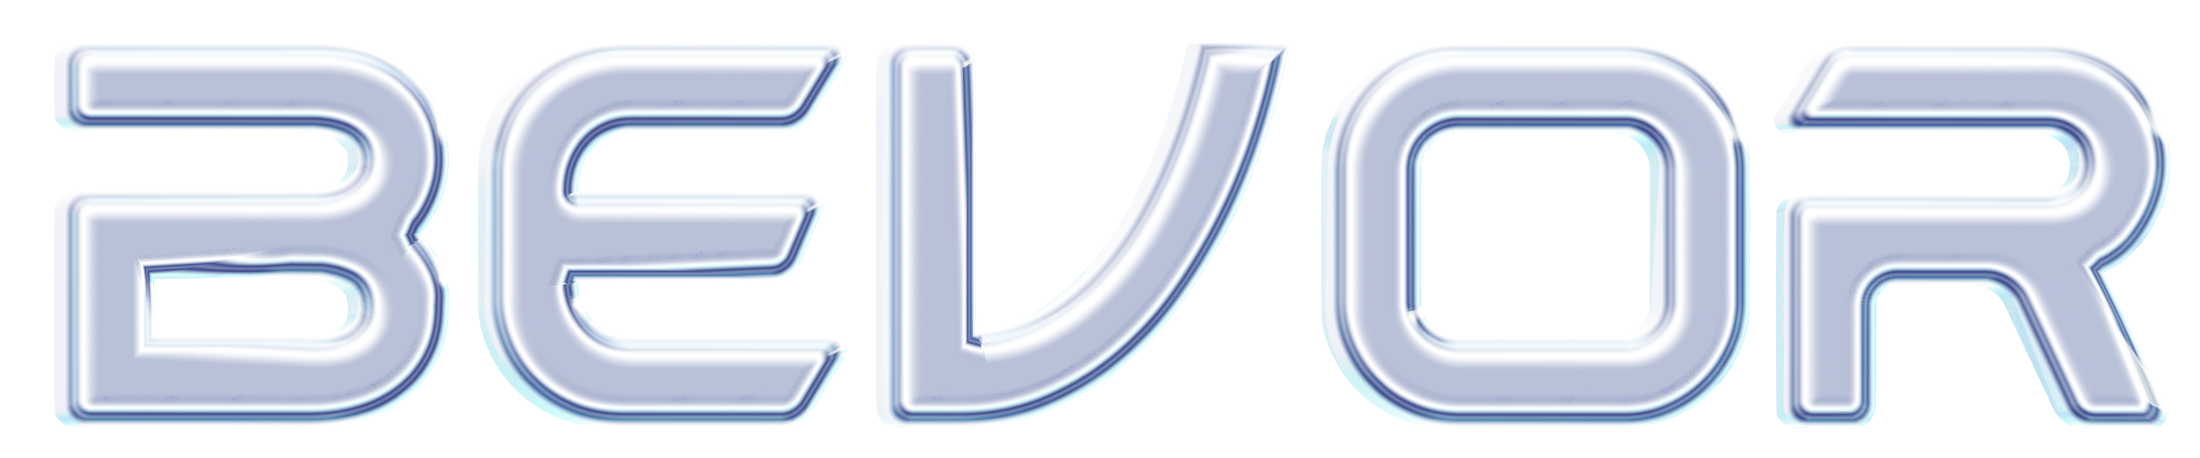
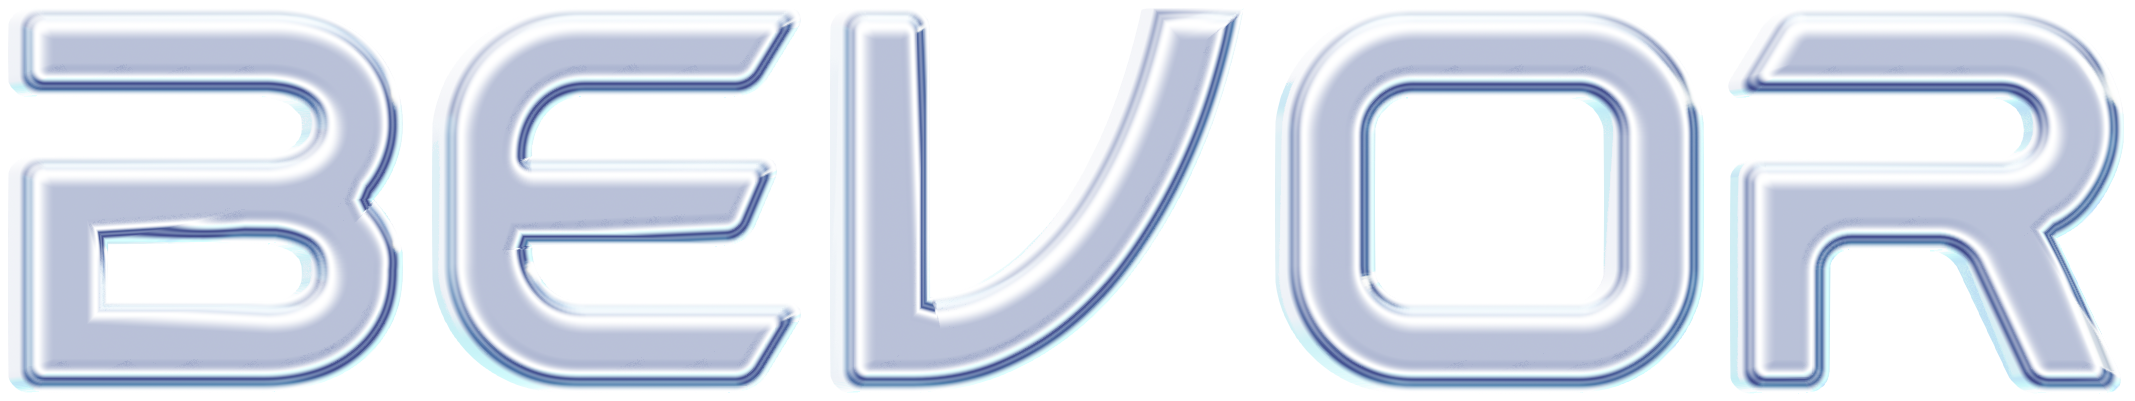
update to high res assets

diff --git a/components/sections/Home.tsx b/components/sections/Home.tsx
@@ -25,7 +25,7 @@ export default (): JSX.Element => {
           </a>
         </div>
         <div className={styles.home_logo}>
-          <Image src="/logo.png" alt="logo" fill={true} sizes="any" />
+          <Image src="/logo.png" alt="logo" fill={true} sizes="any" priority />
         </div>
       </div>
     </section>
